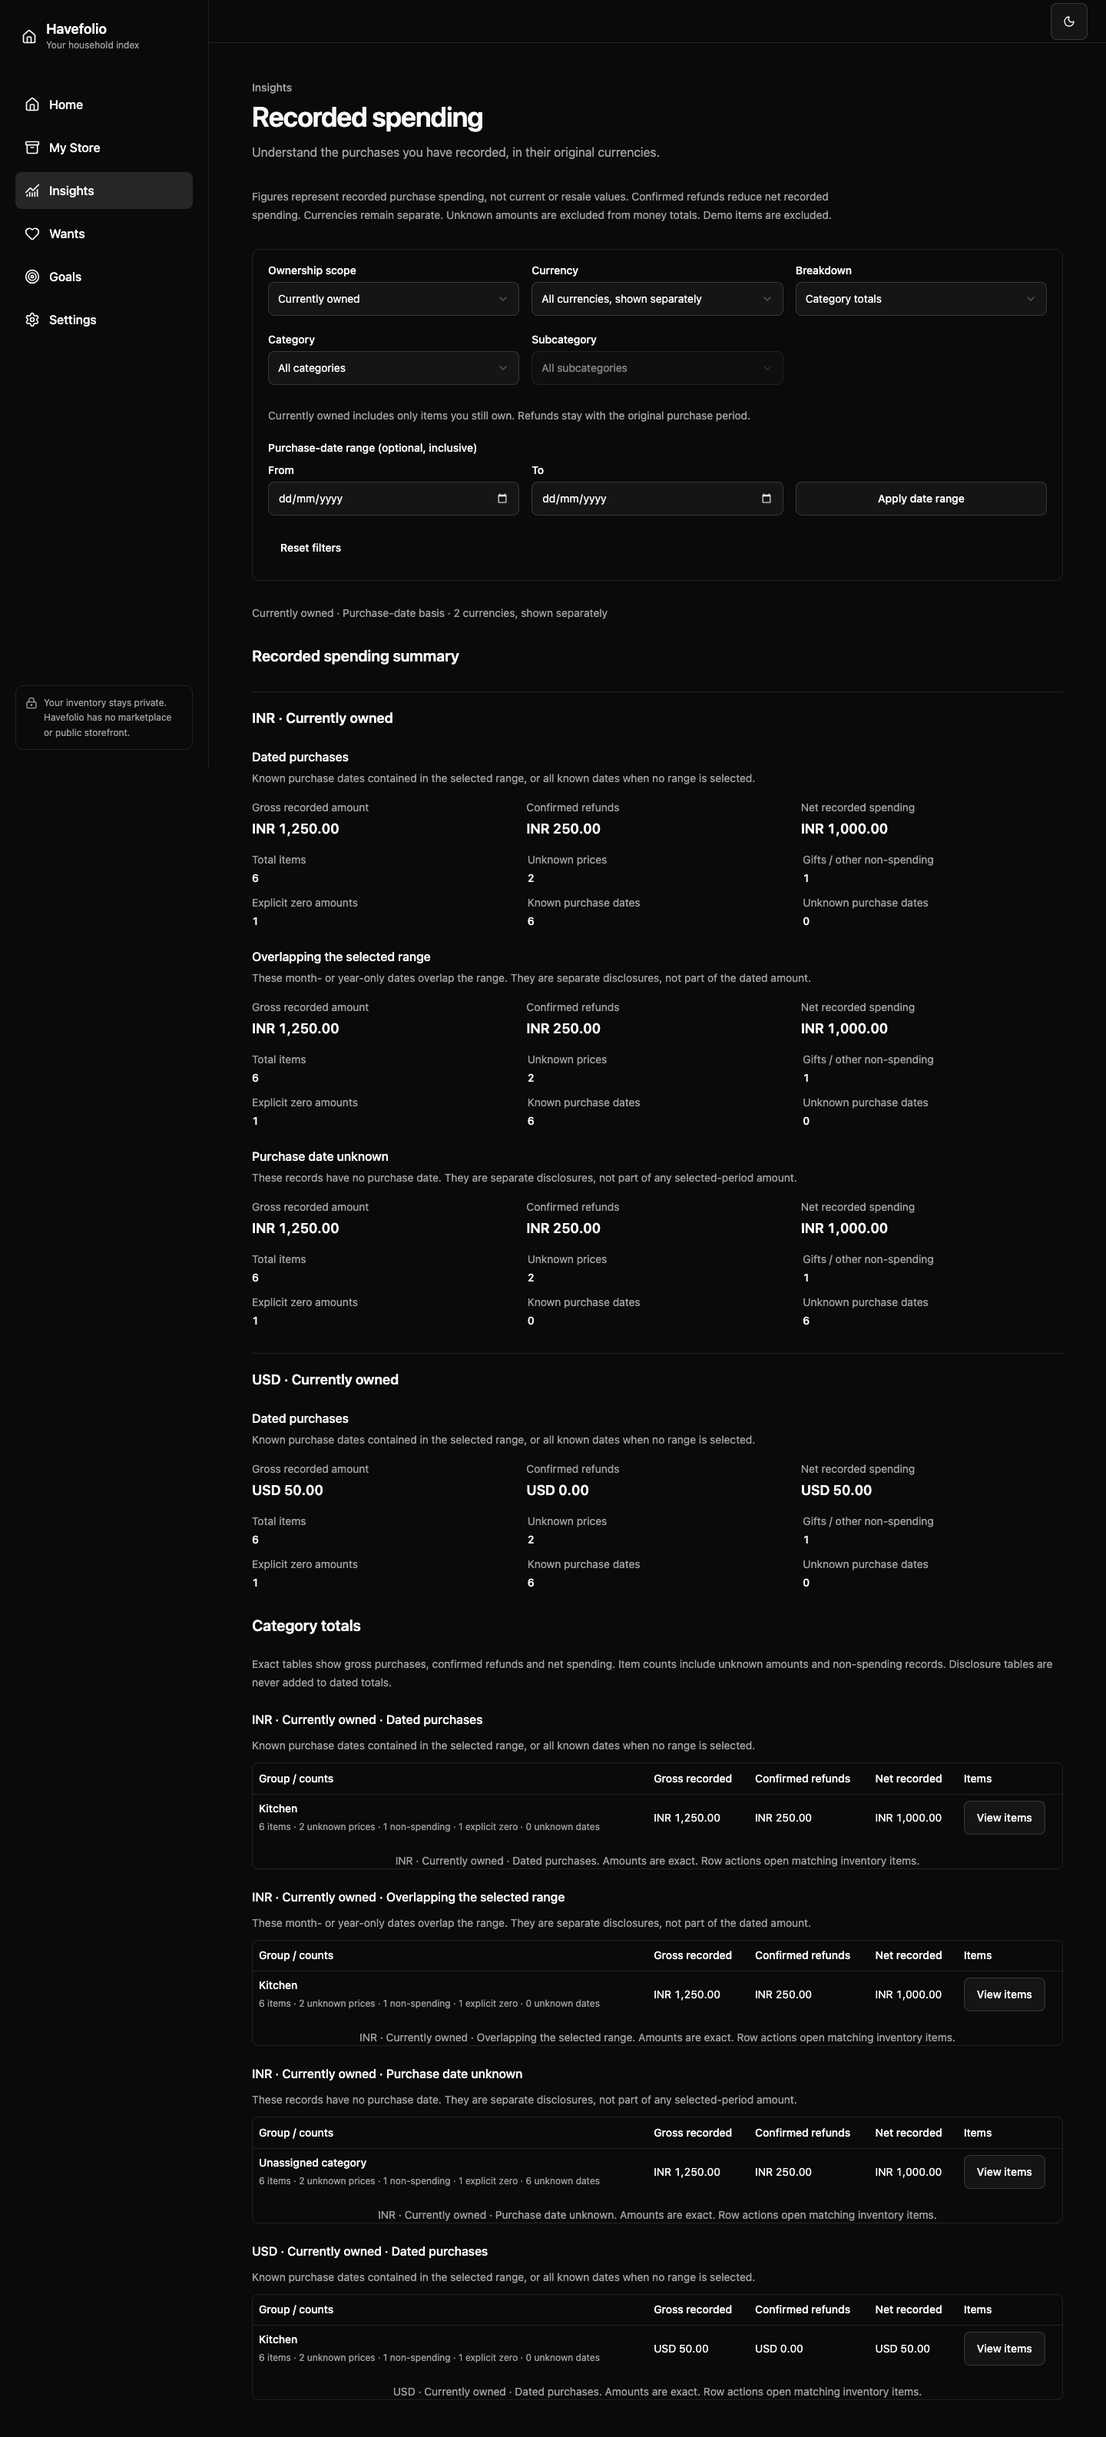
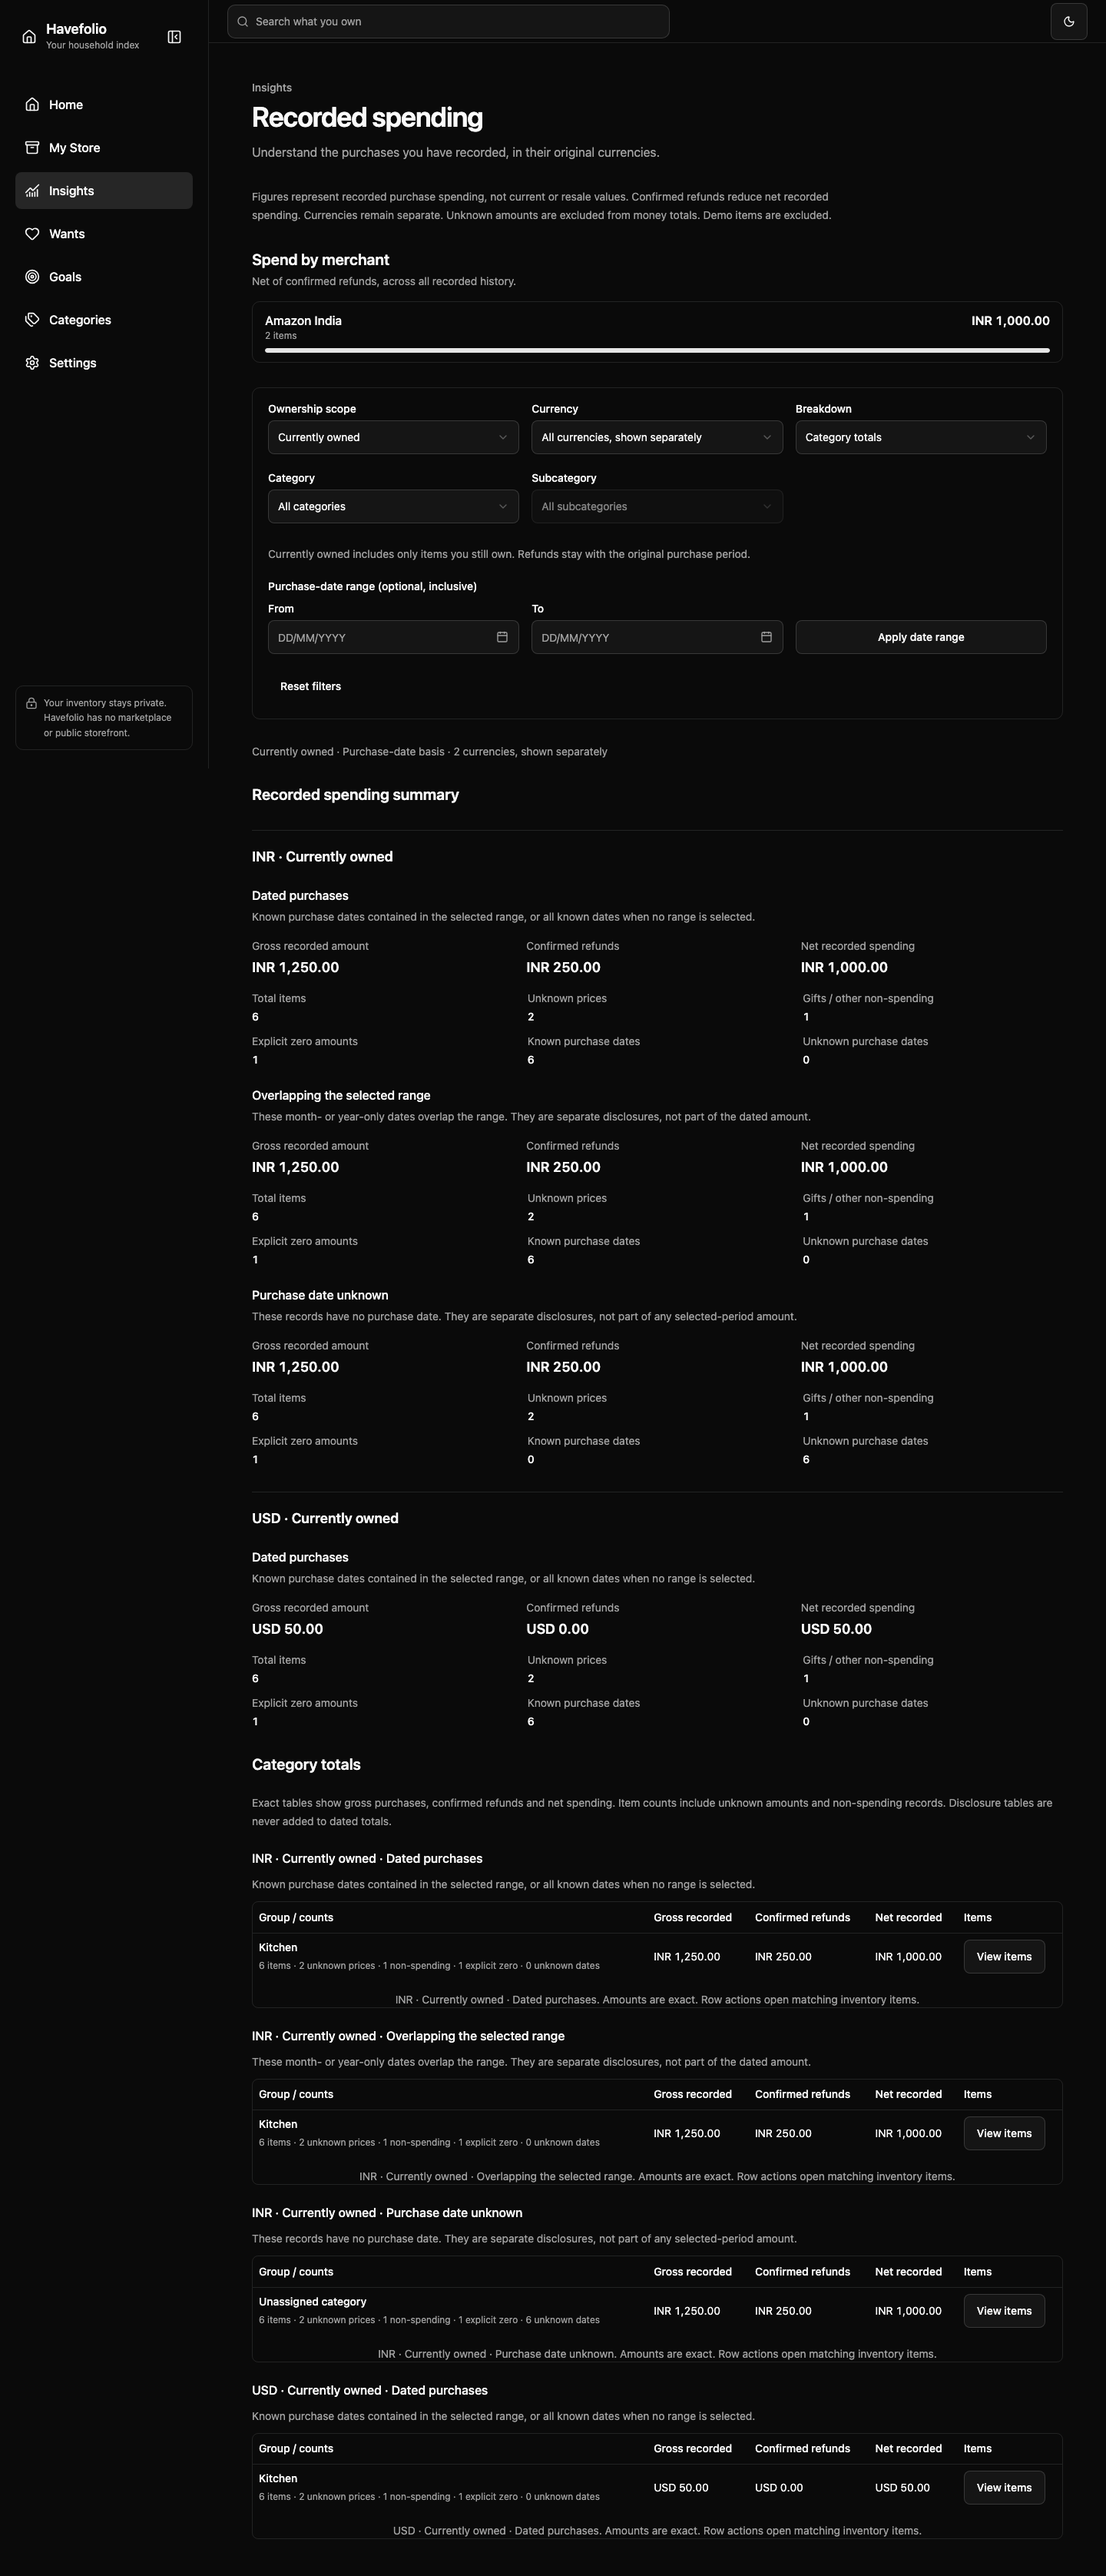
fix(PER-69): mock merchant spending in smoke specs and keep 44px store action
Treat a malformed merchant-spending body as unavailable instead of crashing
Insights, restore the 44px Add item target, and refresh Insights screenshots.

diff --git a/apps/web/e2e/spending.spec.ts b/apps/web/e2e/spending.spec.ts
@@ -179,6 +179,29 @@ async function fixture(
         hasMore: !next,
         nextCursor: next ? null : 'v1.synthetic-next-page-cursor-which-is-opaque',
       };
+    } else if (u.pathname === '/api/v1/spending/merchants') {
+      body = {
+        scope: 'all-history',
+        rows: state.empty
+          ? []
+          : [
+              {
+                currency: 'INR',
+                merchant: {
+                  id: merchantAmazon,
+                  displayName: 'Amazon India',
+                  websiteHost: 'amazon.in',
+                  state: 'active',
+                },
+                grossMinor: '125000',
+                refundedMinor: '25000',
+                netMinor: '100000',
+                pricedItemCount: 2,
+                unknownPriceCount: 0,
+                totalItemCount: 2,
+              },
+            ],
+      };
     } else if (u.pathname === '/api/v1/taxonomy') {
       if (state.taxonomyFails) {
         status = 503;

diff --git a/apps/web/e2e/support/core-journeys.ts b/apps/web/e2e/support/core-journeys.ts
@@ -299,6 +299,24 @@ function body(path: string, search: URLSearchParams, empty: boolean): unknown {
         purchasedTo: null,
         buckets: empty ? [] : [bucket()],
       };
+    case '/api/v1/spending/merchants':
+      return {
+        scope: 'all-history',
+        rows: empty
+          ? []
+          : [
+              {
+                currency: 'INR',
+                merchant: null,
+                grossMinor: '10000',
+                refundedMinor: '0',
+                netMinor: '10000',
+                pricedItemCount: 1,
+                unknownPriceCount: 0,
+                totalItemCount: 1,
+              },
+            ],
+      };
     case '/api/v1/desires':
       return { items: empty ? [] : [desire], nextCursor: null, hasMore: false };
     case want:

diff --git a/apps/web/app/(inventory)/store/page.tsx b/apps/web/app/(inventory)/store/page.tsx
@@ -14,7 +14,7 @@ export default function StorePage(): ReactElement {
     <main className="mx-auto w-full max-w-[112rem] px-4 py-4 sm:px-8 sm:py-6">
       <div className="flex items-center justify-between gap-4">
         <h1 className="text-xl font-semibold tracking-tight sm:text-2xl">My Store</h1>
-        <Button asChild className="h-10">
+        <Button asChild className="h-11">
           <Link href="/items/new">
             <Plus aria-hidden="true" className="mr-2 size-4" />
             Add item

diff --git a/apps/web/components/merchant-spending.tsx b/apps/web/components/merchant-spending.tsx
@@ -30,6 +30,8 @@ export function MerchantSpending(): React.JSX.Element {
     const abort = new AbortController();
     void readMerchantSpending(abort.signal)
       .then((report) => {
+        // A malformed body is treated like an unavailable response, never a page crash.
+        if (!Array.isArray(report?.rows)) throw new Error('Malformed merchant spending');
         if (active) setState({ retry, report });
       })
       .catch((error: unknown) => {
